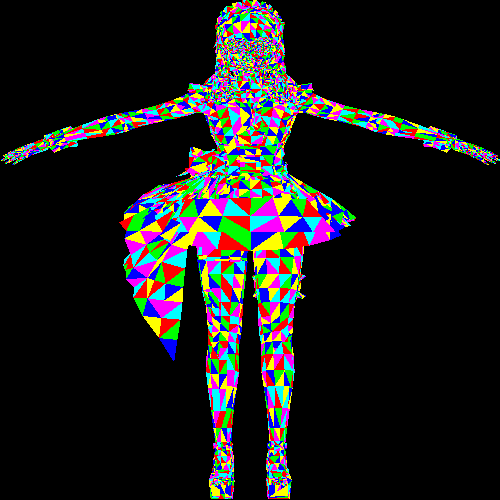
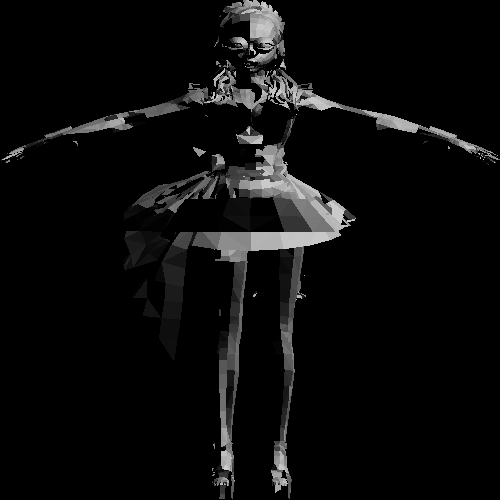
feat: use Lambert light instead of colorfull triangles

Changed region(s): [[0.0, 0.0, 1.0, 1.0]]

diff --git a/examples/1.basic/3.draw_model/main.rs b/examples/1.basic/3.draw_model/main.rs
@@ -61,23 +61,29 @@ fn main() {
   let width = 500;
   let height = 500;
   let mut image = PixImage::new(500, 500);
-  let colors = [
-    Vec3::new(1., 0., 0.),
-    Vec3::new(0., 1., 0.),
-    Vec3::new(0., 0., 1.),
-    Vec3::new(1., 1., 0.),
-    Vec3::new(1., 0., 1.),
-    Vec3::new(0., 1., 1.),
-  ];
+  let light = Vec3::new(1., 1., 1.).normalize();
+  let color = Vec3::new(0.8, 0.8, 0.8);
+  // 模型由三角形构成，因此绘制模型的方式就是遍历模型中的三角形，并且绘制
+  // 这些三角形
   for n in 0..model.face_count() {
     let verts = model.verts_of_face(n);
+    let normal = (verts[1] - verts[0])
+      .cross_product(verts[2] - verts[0])
+      .normalize();
+    // Lambert 环境光模型，亮度正比于光线和法向量的夹角的余弦，
+    // 由于法向量和光线都是单位向量，所以亮度正比于光线和法向量的点积
+    // 这里的法向量由三角形顶点组成的两个向量的叉乘得到。
+    // 因为每个三角形都是同样的颜色，所以在绘制的结果中可以明显的观察
+    // 到模型由三角形构成
+    let intensity = (normal * light).max(0.);
+
     draw_triangle(
       &mut image,
       // 模型顶点坐标范围为[-1,1],将其映射到[0,500]
       world2screen(verts[0], width as f32, height as f32),
       world2screen(verts[1], width as f32, height as f32),
       world2screen(verts[2], width as f32, height as f32),
-      colors[n % colors.len()],
+      color * intensity,
     )
   }
   save_image("basic_draw_model.ppm", &image, PPM).expect("Failed to save image")

diff --git a/examples/1.basic/3.draw_model/README.md b/examples/1.basic/3.draw_model/README.md
@@ -2,6 +2,10 @@
 ```
 cargo run --example basic_draw_model
 ```
-该命令会在当前工作目录下生成basic_draw_model.ppm图片。结果如下图，因为没有考虑三角形的深度（z坐标），所有不同深度的三角形的绘制结果相互干扰，结果只能大概看出一个“人”的形状
+该命令会在当前工作目录下生成basic_draw_model.ppm图片。结果如下图，因为没有考虑三角形的深度（z坐标），所有不同深度的三角形的绘制结果相互干扰，结果看起来会很不对。
 
 ![result](./basic_draw_model.png)
+
+另一个模型：
+
+![result](./spot.png)
